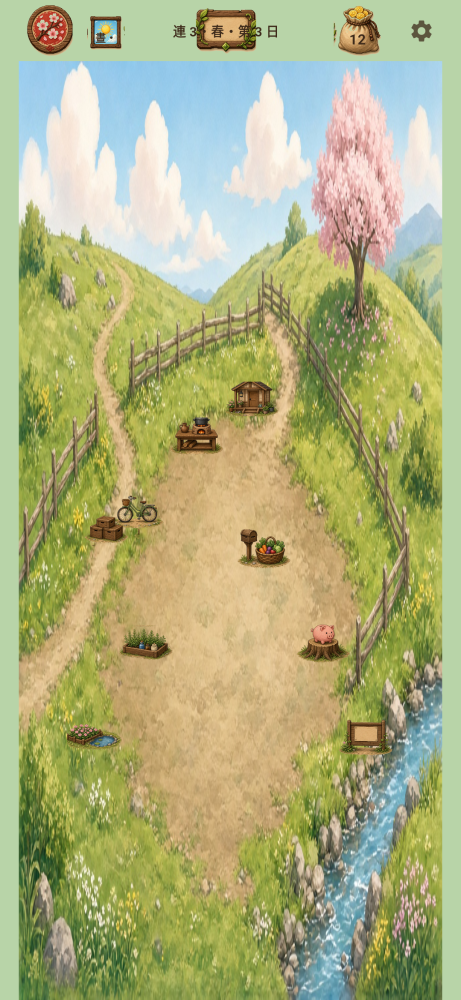
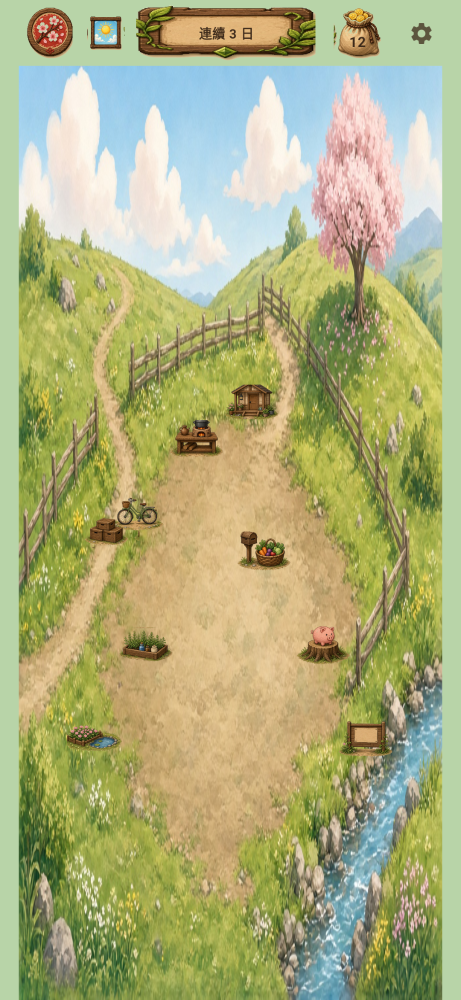
fix(0.5.4c-top): top-bar image-only chips + streak plaque fit
Remove weather Text(take(2)) overlay; season/weather = image only
(contentDescription for a11y). Streak plaque shows 「連續 N 日」 only
(no seasonLine), FillBounds so text stays inside the wood.
versionName 0.5.4c-top / versionCode 5; refresh 05b + new 05c crop.

diff --git a/app/src/main/java/com/farmledger/app/ui/components/RanchTopBar.kt b/app/src/main/java/com/farmledger/app/ui/components/RanchTopBar.kt
@@ -21,6 +21,7 @@ import androidx.compose.ui.graphics.Color
 import androidx.compose.ui.layout.ContentScale
 import androidx.compose.ui.res.painterResource
 import androidx.compose.ui.text.font.FontWeight
+import androidx.compose.ui.text.style.TextAlign
 import androidx.compose.ui.unit.dp
 import androidx.compose.ui.unit.sp
 import com.farmledger.app.R
@@ -30,6 +31,9 @@ private val Ink = Color(0xFF3D2A1A)
 /**
  * A2c 橫屏頂欄：浮空 chip 左右分（季節／天氣｜連續｜種子幣｜設定），
  * **唔做通欄實心條**；真帳 HKD 唔出現喺牧場 HUD（見 A2c_landscape_label_spec §4）。
+ *
+ * 季節章／天氣 = 圖 only（contentDescription 做 a11y）；連續牌只顯示 streak 短文；
+ * 種子袋保留數字。
  */
 @Composable
 fun RanchTopBar(
@@ -47,7 +51,7 @@ fun RanchTopBar(
         horizontalArrangement = Arrangement.spacedBy(8.dp),
         verticalAlignment = Alignment.CenterVertically
     ) {
-        // 左：季節章＋天氣（浮空）
+        // 左：季節章＋天氣（浮空，圖 only）
         Row(
             verticalAlignment = Alignment.CenterVertically,
             horizontalArrangement = Arrangement.spacedBy(4.dp)
@@ -60,45 +64,46 @@ fun RanchTopBar(
                     contentScale = ContentScale.Fit
                 )
             }
-            Box(Modifier.size(36.dp), contentAlignment = Alignment.BottomCenter) {
+            Box(Modifier.size(36.dp), contentAlignment = Alignment.Center) {
                 Image(
                     painterResource(R.drawable.topbar_weather_sunny),
                     contentDescription = weatherOrPhase,
                     modifier = Modifier.size(32.dp),
                     contentScale = ContentScale.Fit
                 )
-                Text(
-                    weatherOrPhase.take(2),
-                    color = Ink,
-                    fontSize = 9.sp,
-                    fontWeight = FontWeight.Bold
-                )
             }
         }
 
-        // 中：連續日記牌（weight，唔填實心底）
+        // 中：連續日記牌（只 streak 短文，唔塞 seasonLine）
         Box(
             Modifier
                 .weight(1f)
-                .height(40.dp),
+                .height(48.dp),
             contentAlignment = Alignment.Center
         ) {
             Image(
                 painterResource(R.drawable.topbar_streak_plaque),
                 contentDescription = "連續記帳",
-                modifier = Modifier.width(200.dp).height(40.dp),
-                contentScale = ContentScale.Fit
+                // Asset is tall (320×250); Fit would shrink it to ~56dp wide and
+                // leave Compose Text outside the visible wood — stretch to fill.
+                modifier = Modifier.width(260.dp).height(48.dp),
+                contentScale = ContentScale.FillBounds
             )
             Text(
-                "連 $streakDays・$seasonLine",
+                text = "連續 $streakDays 日",
                 color = Ink,
                 fontWeight = FontWeight.Bold,
                 fontSize = 11.sp,
-                maxLines = 1
+                maxLines = 2,
+                textAlign = TextAlign.Center,
+                lineHeight = 13.sp,
+                modifier = Modifier
+                    .width(220.dp)
+                    .padding(horizontal = 20.dp, vertical = 4.dp)
             )
         }
 
-        // 右：種子幣袋（只種子幣）
+        // 右：種子幣袋（只種子幣數字）
         Box(Modifier.width(56.dp).height(44.dp), contentAlignment = Alignment.Center) {
             Image(
                 painterResource(R.drawable.topbar_seed_coin_pouch),

diff --git a/app/src/main/java/com/farmledger/app/ui/screens/farm/FarmScreen.kt b/app/src/main/java/com/farmledger/app/ui/screens/farm/FarmScreen.kt
@@ -91,6 +91,7 @@ fun FarmScreen(
         )
 
         Column(Modifier.fillMaxSize()) {
+            // seasonLine / weatherOrPhase → contentDescription only（頂欄圖 only；連續牌只 streak）
             RanchTopBar(
                 seasonLine = "春・第 ${gameDay.gameDay} 日",
                 weatherOrPhase = gameDay.phase.nameZh + "・" + caps.stage.nameZh,

diff --git a/screenshots/README.md b/screenshots/README.md
@@ -10,6 +10,7 @@ Generated with **Paparazzi** (JVM Compose screenshots) — no emulator required.
 | `04_farm.png` | 農田 | 6 plots with mixed empty / growing / ready |
 | `05_ranch_a2c.png` | 牧場 A2c | Floating chips + hotspots (no permanent labels) |
 | `05b_ranch_landscape.png` | 牧場橫屏 | 1280×720 idle; no wood-sign row (spec §6) |
+| `05c_topbar_crop.png` | 頂欄裁切 | 季節／天氣＝圖 only；連續牌只 streak 短文；種子袋數字 |
 
 ## Regenerate
 
@@ -21,6 +22,8 @@ cp app/src/test/snapshots/images/*_03_settle.png screenshots/03_settle.png
 cp app/src/test/snapshots/images/*_04_farm.png screenshots/04_farm.png
 cp app/src/test/snapshots/images/*_05_ranch_a2c.png screenshots/05_ranch_a2c.png
 cp app/src/test/snapshots/images/*_05b_ranch_landscape.png screenshots/05b_ranch_landscape.png
+# Top-bar crop from landscape (new file; do not overwrite playable-v0.1)
+ffmpeg -y -i screenshots/05b_ranch_landscape.png -vf "crop=iw:ih*0.14:0:0" screenshots/05c_topbar_crop.png
 ```
 
 Test source: `app/src/test/java/com/farmledger/app/ui/screenshot/ScreenScreenshotTest.kt`
